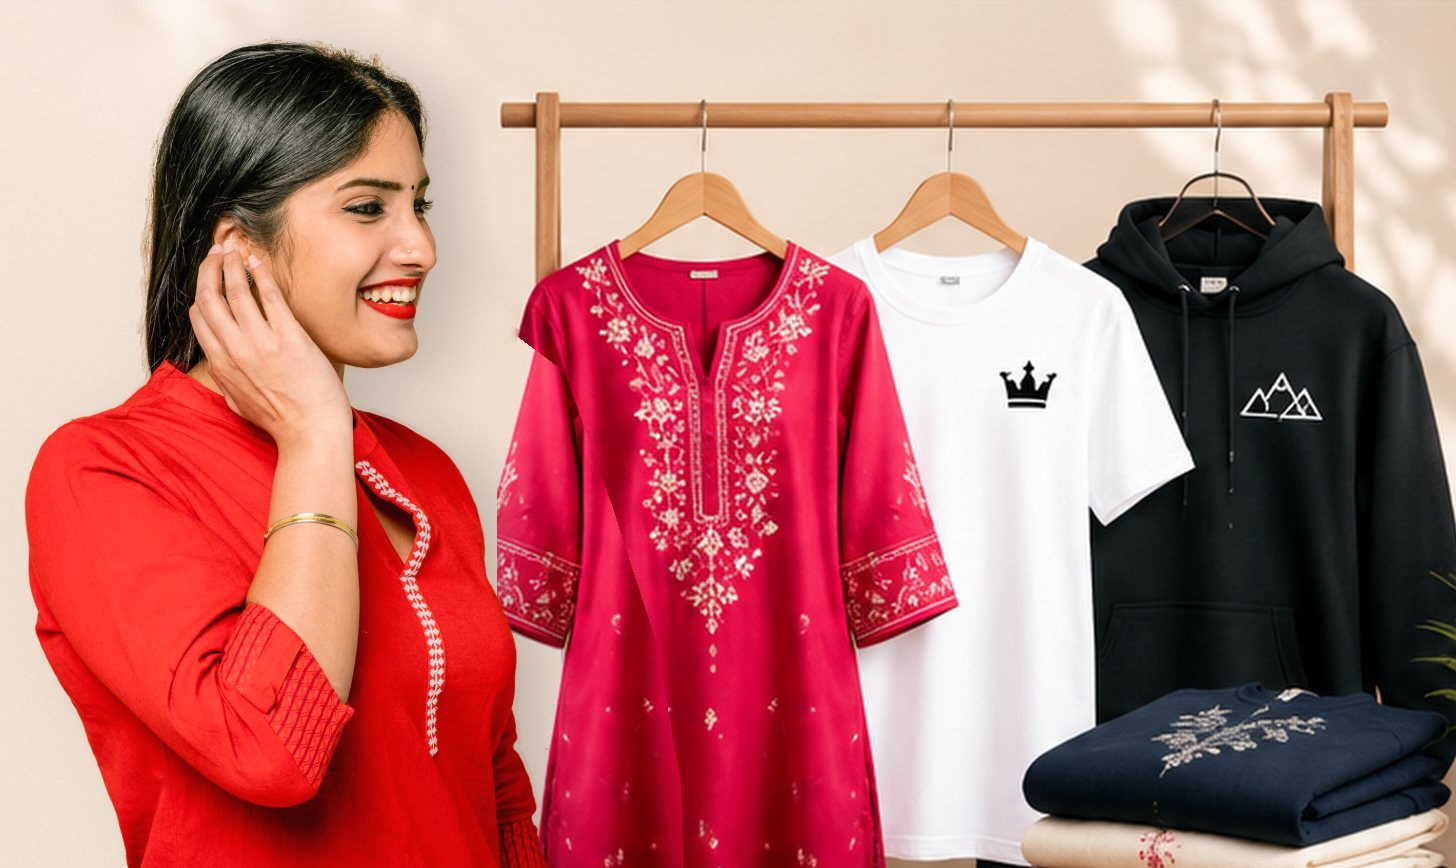
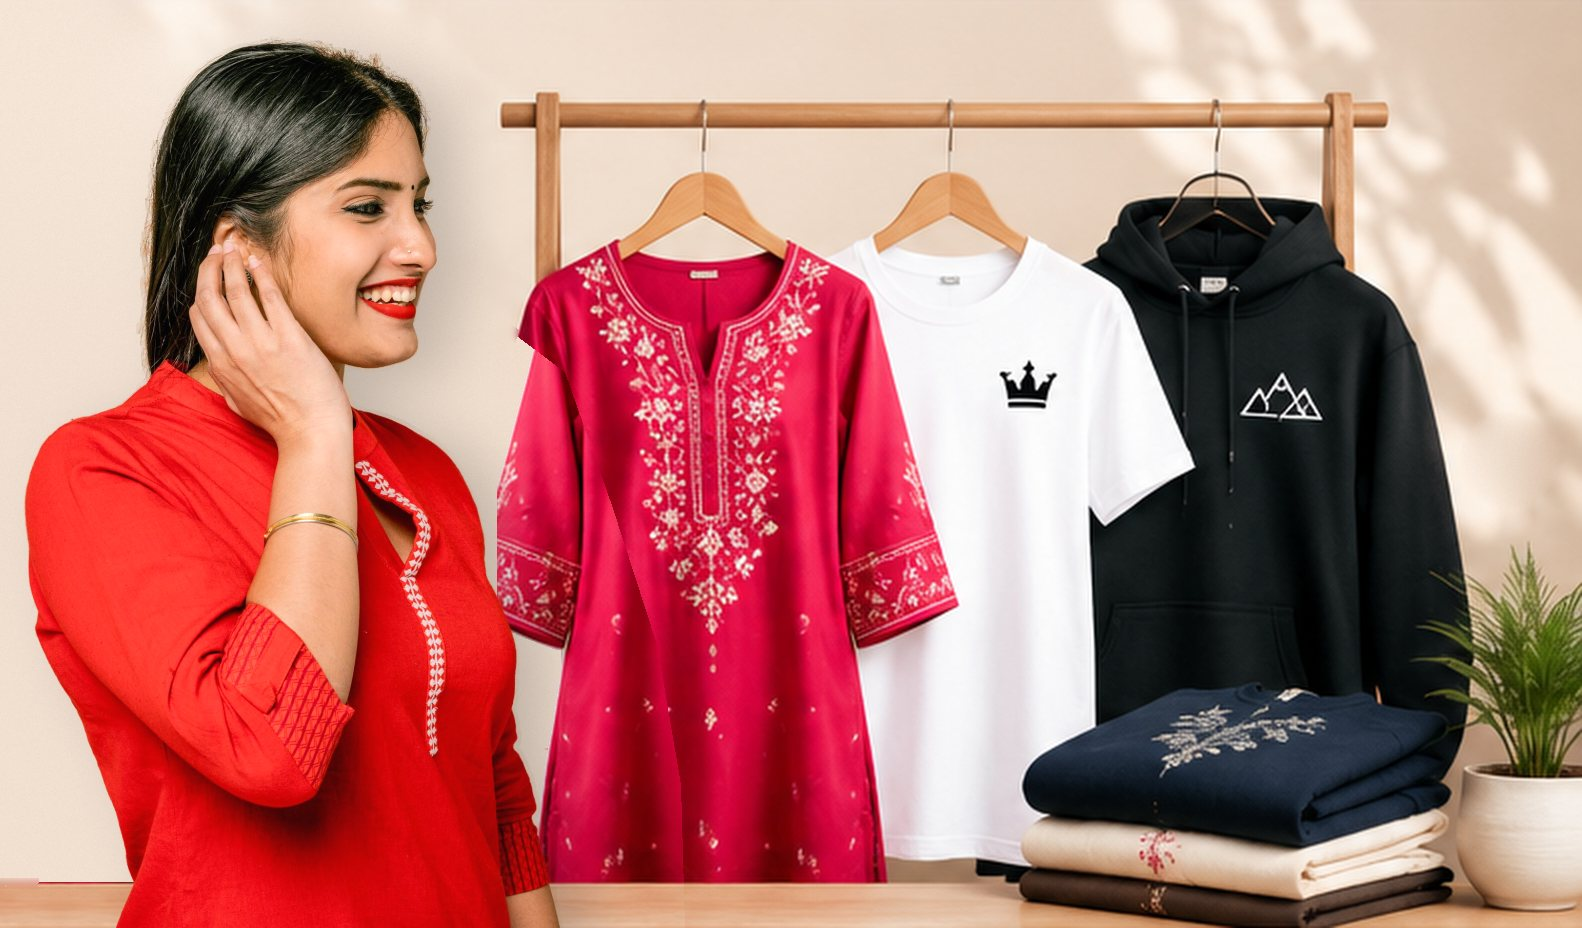
Hero: show the whole picture, nothing cropped
The brand slide's picture now keeps its own shape (aspect-ratio frame on
the bottom edge, top and left edges fading into the cream) instead of
object-fit: cover, which cut off the hoodie and plant on laptop screens.
The picture is the design's full width again, with the design's arrow
button removed and the table under the rail continued where the AI model
hid it. Smaller corner flowers below 1400px so they don't touch the text.

diff --git a/apps/web/src/styles/home.css b/apps/web/src/styles/home.css
@@ -173,9 +173,9 @@
 .zh{position:relative;background:#FAF0E7;overflow:hidden}
 .zh-track{display:flex;overflow-x:auto;scroll-snap-type:x mandatory;scrollbar-width:none;overscroll-behavior-x:contain}
 .zh-track::-webkit-scrollbar{display:none}
-.zh-slide{flex:0 0 100%;scroll-snap-align:start;display:grid;grid-template-columns:minmax(0,1fr) minmax(0,1.1fr);min-height:clamp(430px,34vw,520px);position:relative}
-.zh-copy{position:relative;z-index:2;display:flex;flex-direction:column;align-items:center;justify-content:center;text-align:center;padding:36px 24px 60px;color:var(--navy)}
-.zh-logo{margin:0;line-height:0}.zh-logo img{width:min(430px,82%);height:auto;margin:0 auto}
+.zh-slide{flex:0 0 100%;scroll-snap-align:start;display:grid;grid-template-columns:minmax(0,1fr) minmax(0,1.1fr);min-height:clamp(400px,31vw,560px);position:relative}
+.zh-copy{position:relative;z-index:2;display:flex;flex-direction:column;align-items:center;justify-content:center;text-align:center;padding:26px 24px 44px;color:var(--navy)}
+.zh-logo{margin:0;line-height:0}.zh-logo img{width:clamp(260px,27vw,430px);max-width:86%;height:auto;margin:0 auto}
 .zh-tag{display:flex;align-items:center;gap:16px;margin:14px 0 0;font-size:clamp(15px,1.4vw,19px);font-weight:500;letter-spacing:.3em;text-transform:uppercase}
 .zh-tag::before,.zh-tag::after{content:'';width:clamp(40px,6vw,90px);height:1.5px;background:var(--crim)}
 .zh-tag i,.zh-ranges i{width:6px;height:6px;border-radius:50%;background:var(--crim);display:inline-block}
@@ -190,7 +190,12 @@
 .zh-btn:hover{background:var(--crim-d)}
 .zh-art{margin:0;position:relative;min-height:100%}
 .zh-art img{position:absolute;inset:0;width:100%;height:100%;object-fit:cover;object-position:left center;-webkit-mask-image:linear-gradient(90deg,transparent,#000 12%);mask-image:linear-gradient(90deg,transparent,#000 12%)}
+/* the brand slide shows the whole picture (rail, kurti, T-shirt, hoodie, plant): the frame takes the picture's
+   own shape, sits on the bottom edge, and its top and left edges fade into the cream */
+.zh-brand .zh-art{min-height:0;align-self:end;aspect-ratio:1582/928}
+.zh-brand .zh-art img{object-position:center bottom;-webkit-mask-image:linear-gradient(90deg,transparent,#000 10%),linear-gradient(180deg,transparent,#000 7%);-webkit-mask-composite:source-in;mask-image:linear-gradient(90deg,transparent,#000 10%),linear-gradient(180deg,transparent,#000 7%);mask-composite:intersect}
 .zh-flowers{position:absolute;left:0;bottom:0;width:clamp(96px,9.5vw,140px);height:auto;z-index:1;pointer-events:none}
+@media(max-width:1400px){.zh-flowers{width:80px}}
 .zh-arrow{position:absolute;top:50%;transform:translateY(-50%);width:46px;height:46px;border-radius:50%;background:#fff;color:var(--navy);display:grid;place-items:center;box-shadow:0 8px 22px -10px rgba(20,26,59,.45);z-index:3}
 .zh-arrow svg{width:20px;height:20px}.zh-arrow.prev{left:18px}.zh-arrow.next{right:18px}
 .zh-dots{position:absolute;left:50%;bottom:18px;transform:translateX(-50%);display:flex;gap:8px;z-index:3}
@@ -199,6 +204,7 @@
 @media(max-width:760px){
   .zh-slide{grid-template-columns:1fr;grid-template-rows:auto auto}
   .zh-art{order:-1;height:260px}.zh-art img{-webkit-mask-image:none;mask-image:none;object-position:center 30%}
+  .zh-brand .zh-art{height:auto;aspect-ratio:1582/928;align-self:start}.zh-brand .zh-art img{-webkit-mask-image:none;mask-image:none;object-position:center}
   .zh-copy{padding:22px 16px 54px}.zh-flowers{display:none}.zh-arrow{top:130px;width:38px;height:38px}
   .zh-tag{letter-spacing:.2em;gap:10px}
 }

diff --git a/apps/web/src/components/home/HeroCarousel.tsx b/apps/web/src/components/home/HeroCarousel.tsx
@@ -80,7 +80,7 @@ export function HeroCarousel() {
             </div>
             <figure className="zh-art">
               {s.img.startsWith('/')
-                ? <img src={s.img} alt={s.alt} width={1456} height={868} fetchPriority={n === 0 ? 'high' : undefined} loading={n === 0 ? 'eager' : 'lazy'} />
+                ? <img src={s.img} alt={s.alt} width={1582} height={928} fetchPriority={n === 0 ? 'high' : undefined} loading={n === 0 ? 'eager' : 'lazy'} />
                 : <img {...photo(s.img, s.alt, { sizes: '(max-width: 760px) 100vw, 50vw' })} />}
             </figure>
             {s.id === 'brand' && <img className="zh-flowers" src="/brand/home/hero-flowers.png" alt="" width={140} height={205} aria-hidden="true" />}
